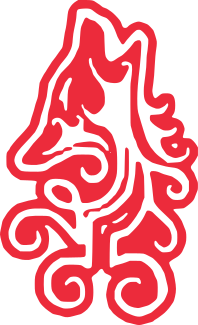
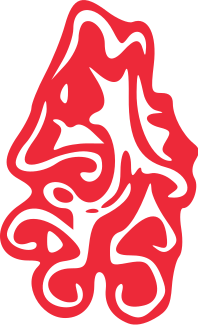
Fixed comtegiom images

diff --git a/_site/articles/norici.html b/_site/articles/norici.html
@@ -230,7 +230,7 @@
 
 <p>In attempting to flesh out a reconstructed worldview, it may be helpful here to also make an attempt at reconstructing how the <em>Norici</em> organized themselves. Unfortunately, primary (or even secondary and tertiary) sources are scant when discussing the culture, society, and political organization of the <em>Norici</em>. Thankfully, an innovation precedent has been set to circumvent this. As described by Selgowiros Caranticnos[1], in a piece comparing and contrasting the Nervii with the martial culture of the Spartans (a comparison that may prove a useful read for anyone attempting a Tauriscan practice, as they are called “most warlike”[2]), it is possible to postulate a social and political structure on the basis of similarities with more widely-known cultures; however, in the case of the Nervii, Caesar so graciously gifted modern academia a one-line passing mention of Nervii culture, which is more than ancient authors say about the <em>Norici</em>. That being said, two crucial facets of <em>Norican</em> civilization are known: 1. the structure of their governance, which appears to have been a hereditary monarchy as the head of a tribal confederation[3], and 2. the biggest sector of the Norican economy, mining.[4] Through these two breadcrumbs of information, an attempt will be made here to reconcile what is known of Celtic kingdom structures, as well as what is known of the social impacts of a mining economy through comparison with another mining economy of the ancient world, that of Athens.</p>
 
-<p>It is likely easier to begin by exploring the political landscape of the <em>Norici</em> than the social. It appears that upon first contact with Rome, the Norici were already ruled by a “dynasty” of sorts. The <em>Rix</em>, Cincibilus, and his brother, Catmelus, are both also referred to by Livy as ‘regulus’, a title which Livy apparently used for rulers or royalty among the Celts. Other language in Livy, according to Alföldy, also supports this understanding of Cincibilus and his family as a royal house.[5] This idea is further strengthened by the likelihood that Balanos, the immediate successor to Cincibilus, was Cincibilus’ son.[6] From this, it can be extrapolated that the <em>Norici</em>, and the tribes that they dominated, were well on their way to becoming a hereditary monarchy. In comparison with other Continental Celtic kigships, other likely elements of Norican governance can also be extrapolated. For instance, the existance of the <em>Ambactoi</em>, or the king’s retinue, can be considered extremely likely.[7] It can also be said here that this office of <em>Rix (or Rigos) Noricon</em> (King of the Norici), also had religious aspects. Among them would be a metaphorical “marriage” of the <em>Rix</em> to the sovereignty goddes (in this case Noreia). This dynamic lends itself to an understanding of “divine right”, by which poor leadership of a <em>Rix</em> would lead to Earthly misfortune for his people.[8]</p>
+<p>It is likely easier to begin by exploring the political landscape of the <em>Norici</em> than the social. It appears that upon first contact with Rome, the Norici were already ruled by a “dynasty” of sorts. The <em>Rix</em>, Cincibilus, and his brother, Catmelus, are both also referred to by Livy as ‘regulus’, a title which Livy apparently used for rulers or royalty among the Celts. Other language in Livy, according to Alföldy, also supports this understanding of Cincibilus and his family as a royal house.[5] This idea is further strengthened by the likelihood that Balanos, the immediate successor to Cincibilus, was Cincibilus’ son.[6] From this, it can be extrapolated that the <em>Norici</em>, and the tribes that they dominated, were well on their way to becoming a hereditary monarchy. In comparison with other Continental Celtic kigships, other likely elements of Norican governance can also be extrapolated. For instance, the existance of the <em>Ambactoi</em>, or the king’s retinue, can be considered extremely likely.[7] It can also be said here that this office of <em>Rix (or Rigos) Noricon</em> (King of the Norici), also had religious aspects. Among them would be a metaphorical “marriage” of the <em>Rix</em> to the sovereignty goddess (in this case Noreia). This dynamic lends itself to an understanding of “divine right”, by which poor leadership of a <em>Rix</em> would lead to Earthly misfortune for his people.[8]</p>
 
 <p>Aside from the political reality of the Norican kingship, which besides some nuance is an otherwise self-explanatory concept, Norican social structure can also be explored. Perhaps the best way to showcase this, as discussed above, is through comparison with Athens. In a society based around mining and trade, class was likely based more around wealth than birth. The class of slavery will be shown here <em>only</em> because the class existed historically throughout the ancient world. Slavery is abhorrent and is mentioned here, again, only so it not be forgotten.</p>
 
@@ -267,12 +267,12 @@
       <td><em>Didios/Didioi</em> These would likely be Roman traders living in Noricum.</td>
     </tr>
     <tr>
-      <td>Freed Slaves</td>
-      <td><em>Ancaxtos/Ancaxtoi</em> Former slaves</td>
+      <td><del>Freed Slaves</del></td>
+      <td><del><em>Ancaxtos/Ancaxtoi</em> Former slaves</del></td>
     </tr>
     <tr>
-      <td>Slaves</td>
-      <td><em>Caxtos/Caxtoi</em> Current slaves</td>
+      <td><del>Slaves</del></td>
+      <td><del><em>Caxtos/Caxtoi</em> Current slaves</del></td>
     </tr>
   </tbody>
 </table>
@@ -280,11 +280,11 @@
 <p><br /></p>
 
 <p><strong><em>Ελευθερία ή Θάνατος</em></strong><br />
-<strong><em>Rioađđus ixe Maruos</em></strong><br />
+<strong><em>Rioađđus Maruosue</em></strong><br />
 <strong><em>Freedom or Death</em></strong><br /></p>
 
 <p><strong><em>Τέλειο μυαλό και τέλειο σώμα</em></strong><br />
-<strong><em>Subarros etic Sucrif</em></strong><br />
+<strong><em>Supēslā Sucrifsc</em></strong><br />
 <strong><em>Good Mind and Good Body</em></strong><br /></p>
 
 <p><strong>Sources</strong></p>
@@ -309,10 +309,10 @@
     <p>Noricum by Géza Alföldy, 1974, pp. 32</p>
   </li>
   <li>
-    <p><a href="http://exploringcelticciv.web.unc.edu/early-celtic-social-structures/">Early Celtic Social Structures</a>, on Exploring Celtic Civilizations, maintained by the University of Nirth Carolina</p>
+    <p><a href="http://exploringcelticciv.web.unc.edu/early-celtic-social-structures/">Early Celtic Social Structures</a>, on Exploring Celtic Civilizations, maintained by the University of North Carolina</p>
   </li>
   <li>
-    <p><a href="http://exploringcelticciv.web.unc.edu/early-celtic-social-structures/">Early Celtic Social Structures</a>, on Exploring Celtic Civilizations, maintained by the University of Nirth Carolina</p>
+    <p><a href="http://exploringcelticciv.web.unc.edu/early-celtic-social-structures/">Early Celtic Social Structures</a>, on Exploring Celtic Civilizations, maintained by the University of North Carolina</p>
   </li>
 </ol>
 

diff --git a/_site/articles/sinatis.html b/_site/articles/sinatis.html
@@ -238,7 +238,7 @@
 
 <p>In Bessus Noricon, <em>Sinatis</em> will be a god of justice and right, a virtue commonly associated with the Gaulish idea of “honor”.[6]</p>
 
-<p><strong><em>Interpretatio:</em></strong></p>
+<p><strong>Interpretatio:</strong></p>
 
 <p>It is hard to definitively ascribe <em>Sinatis</em> a Roman counterpart, although He is attested in an inscription with several other theonyms: MARTI LATOBIO MARMOGIO SINATI TOUTATI Mog[ET]IO. This could be a dedication two one deity, two, or even six.[7][8][9] Given this inscription, it is possible He was associated with Mars.</p>
 

diff --git a/_site/articles/latobius.html b/_site/articles/latobius.html
@@ -238,7 +238,7 @@
 
 <p>In Bessus Noricon, <em>Latobius</em> will be a god similar to <em>Belinos</em>, of particualr interest to the Latobici. He will oversee elements of healing, the solar cult, the water cult, of a <em>psychopomp</em>, and of combat. In this interpretation, he will be of particular interest for <em>Nertobessus Noricon</em> or Norican athletic cult.</p>
 
-<p><strong><em>Interpretatio:</em></strong></p>
+<p><strong>Interpretatio:</strong></p>
 
 <p><em>Latobius</em> is almost universally equated with Mars.</p>
 

diff --git a/_site/assets/js/service-worker.js b/_site/assets/js/service-worker.js
@@ -1,4 +1,4 @@
-const LATEST_CACHE_ID = 'v3';
+const LATEST_CACHE_ID = 'v8';
 
 self.addEventListener('install', function(e) {
   e.waitUntil(

diff --git a/assets/js/service-worker.js b/assets/js/service-worker.js
@@ -1,4 +1,4 @@
-const LATEST_CACHE_ID = 'v7';
+const LATEST_CACHE_ID = 'v8';
 
 self.addEventListener('install', function(e) {
   e.waitUntil(
